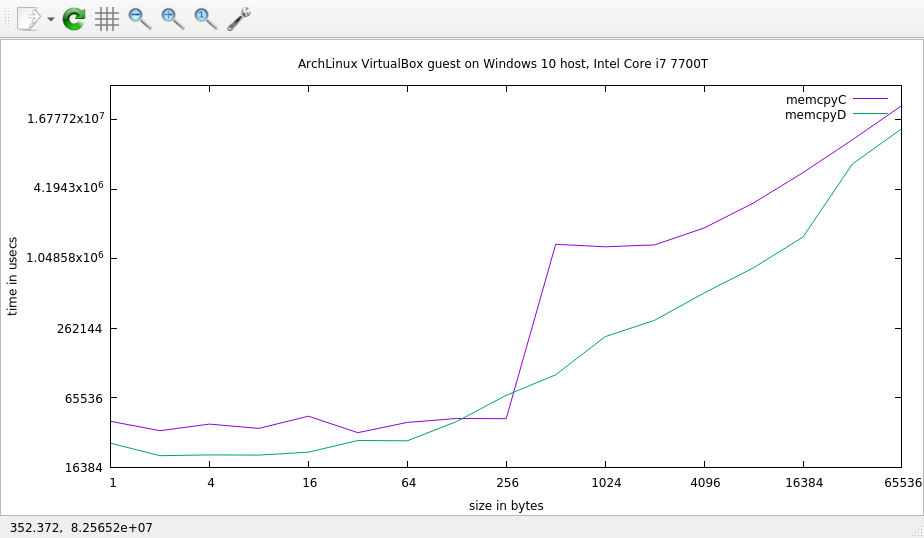
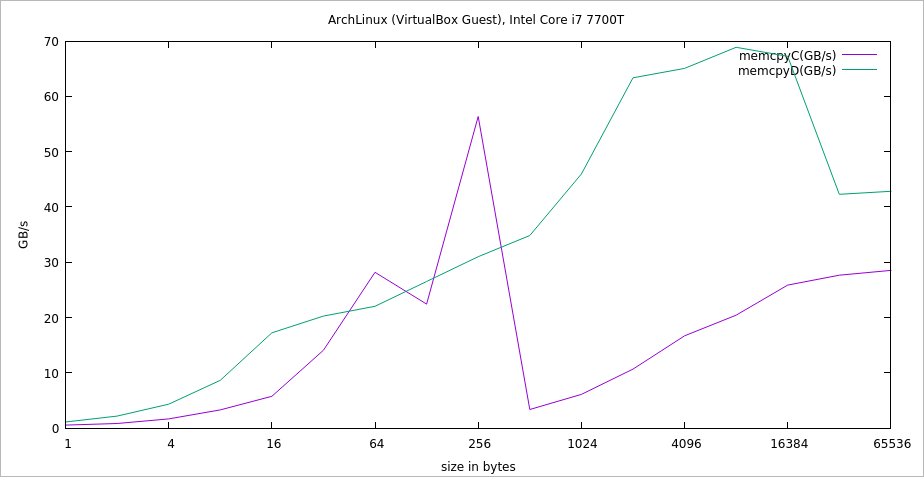
Update images

diff --git a/README.md b/README.md
@@ -26,20 +26,16 @@ It is not a goal of this endeavor to implement a faster `memcpy` in D, but rathe
 memcpyD, so far, is able to meet or beat memcpyC's performance in most tests.
 
 ### Windows 10, Intel Core i5 6300U (Microsoft Surface Book)
-Compiled with `dmd -m64 memcpyd.d`.
+Compiled with `dmd -m64 -O -inline memcpyd.d`.
 ![](https://raw.githubusercontent.com/JinShil/memcpyD/master/images/surfacebook.png)
 
 ### Windows 10 Intel Core i7 7700T
-Compiled with `dmd -m64 memcpyd.d`.
+Compiled with `dmd -m64 -O -inline memcpyd.d`.
 ![](https://raw.githubusercontent.com/JinShil/memcpyD/master/images/win10.png)
-
-### Windows 8, AMD FX-8370
-Compiled with `dmd -m64 memcpyd.d`.
-![](https://raw.githubusercontent.com/JinShil/memcpyD/master/images/win8amd8370.png)
 
 
 ### Linux VirtualBox Guest on Windows 10 Host, Intel Core i7 7700T
-Compiled with `dmd memcpyd.d`.
+Compiled with `dmd -O -inline memcpyd.d`.
 ![](https://raw.githubusercontent.com/JinShil/memcpyD/master/images/linux.png)
 
 I don't know why memcpyD outperforms memcpyC in VirtualBox, but I believe it is a fluke.  I don't expect such results on real hardware.
@@ -48,7 +44,7 @@ I don't know why memcpyD outperforms memcpyC in VirtualBox, but I believe it is 
 ### How run
 
 ```
-dmd -O -inline memcpyd.d 
+dmd -O -inline memcpyd.d
 ./memcpyd average 2>&1 | tee data.txt
 rdmd plot.d data.txt
 ```
